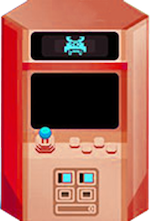
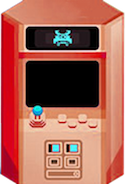
Resized arcade machine images and aligned images

diff --git a/Menu.py b/Menu.py
@@ -40,16 +40,12 @@ class Menu(object):
         surface.blit(text, (10, 10))
 
         # Render arcade machines
-        for i in range(0, 3):
-            s = surface.subsurface((175 * i, 35, Menu.IMAGE_ARCADE_MACHINE_WIDTH, Menu.IMAGE_ARCADE_MACHINE_HEIGHT))
+        for i in range(0, 6):
+            s = surface.subsurface((124 * i, 350, 
+            Menu.IMAGE_ARCADE_MACHINE_WIDTH, 
+            Menu.IMAGE_ARCADE_MACHINE_HEIGHT))
             #pygame.transform.scale(s, (100, 250), s)
-            s.blit(self.minigameArcadeMachineImages[i], (0,0))
-            
-        for i in range(0, 3):
-            s = surface.subsurface((175 * i, 35 + Menu.IMAGE_ARCADE_MACHINE_HEIGHT, Menu.IMAGE_ARCADE_MACHINE_WIDTH, Menu.IMAGE_ARCADE_MACHINE_HEIGHT))
-            #pygame.transform.scale(s, (100, 250), s)
-            s.blit(self.minigameArcadeMachineImages[i + 3], (0,0))
-
+            s.blit(self.minigameArcadeMachineImages[i], (15 + 5 * i, 0))
         # Footer Text
         text = self.footerFont.render("Made by Dennis, Jasper, Gavin, Ties and Vincent", True, self.footerColor)
         surface.blit(text, (10, surface.get_height() - 30))
